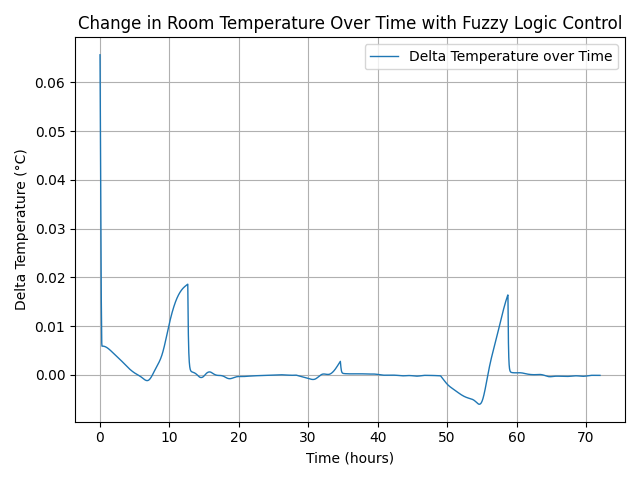
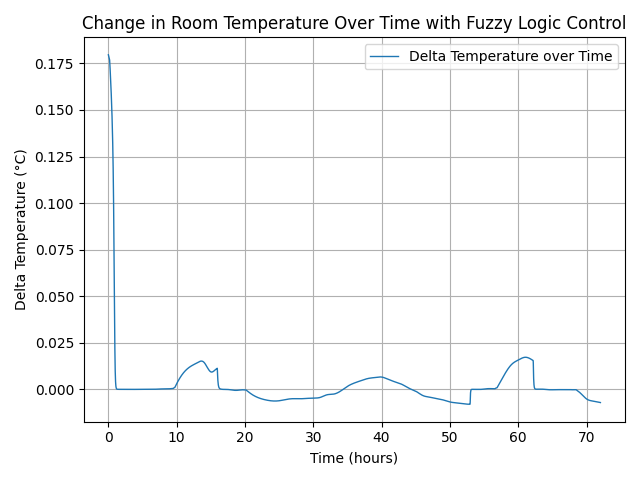
fair results

diff --git a/system.py b/system.py
@@ -23,11 +23,11 @@ cur_time = start
 outdoor_temps = [16.3]
 
 #initial_temp = -5 + splines['temperature'](0) * random.uniform(0.9, 1.1)  # %10 variation in initial temperature
-initial_temp = 17.5
+initial_temp = 10
 initial_hum = 50.0
 #initial_hum = 5 + splines['humidity'](0) * random.uniform(0.9, 1.1)  # %10 variation in initial humidity
 initial_delta_temp = 0  # Initial change in temperature
-#initial_delta_hum = -5  # Initial change in humidity
+#initial_delta_hum = 0  # Initial change in humidity
 
 cur_temp = initial_temp
 cur_hum = initial_hum
@@ -78,6 +78,7 @@ while cur_time < max_time:
     temps.append(cur_temp)
     hums.append(cur_hum)
     delta_temps.append(cur_delta_temp)
+    #delta_hums.append(cur_delta_hum)
     outdoor_temps.append(splines['temperature'](cur_time))
 
     cur_delta_temp = new_temp - cur_temp
@@ -122,6 +123,16 @@ plt.legend()
 plt.tight_layout()
 plt.savefig('results/delta_temperature_over_time.png')
 plt.clf()
+
+#plt.plot(times, delta_hums, label='Delta Humidity over Time', lw = 1)
+#plt.xlabel('Time (hours)')
+#plt.ylabel('Delta Humidity (%)')
+#plt.title('Change in Room Humidity Over Time with Fuzzy Logic Control')
+#plt.grid()
+#plt.legend()
+#plt.tight_layout()
+#plt.savefig('results/delta_humidity_over_time.png')
+#plt.clf()
 
 plt.plot(times[1:], ac_control_data, label='AC/Heater Control Signal', lw = 1)
 plt.xlabel('Time (hours)')

diff --git a/membership_functions.py b/membership_functions.py
@@ -30,9 +30,9 @@ delta_humidity['stable'] = fuzz.trimf(universes['delta_humidity'], [-1, 0, 1])  
 delta_humidity['increasing'] = fuzz.trapmf(universes['delta_humidity'], [2, 15, mm.DELTA_HUM_MAX, mm.DELTA_HUM_MAX])
 
 ac_heater_power = ctrl.Consequent(universes['ac_heater_power'], 'ac_heater_power')
-ac_heater_power['cooling'] = fuzz.trapmf(universes['ac_heater_power'], [mm.AC_HEATER_POWER_MIN, mm.AC_HEATER_POWER_MIN, -20, 15])
-ac_heater_power['off'] = fuzz.trimf(universes['ac_heater_power'], [-5, 0, 15])
-ac_heater_power['heating'] = fuzz.trapmf(universes['ac_heater_power'], [-5, 30, mm.AC_HEATER_POWER_MAX, mm.AC_HEATER_POWER_MAX])
+ac_heater_power['cooling'] = fuzz.trapmf(universes['ac_heater_power'], [mm.AC_HEATER_POWER_MIN, mm.AC_HEATER_POWER_MIN, -25, 0])
+ac_heater_power['off'] = fuzz.trimf(universes['ac_heater_power'], [-10, 0, 10])
+ac_heater_power['heating'] = fuzz.trapmf(universes['ac_heater_power'], [0, 25, mm.AC_HEATER_POWER_MAX, mm.AC_HEATER_POWER_MAX])
 
 humidifier_dehumidifier_power = ctrl.Consequent(universes['humidifier_dehumidifier_power'], 'humidifier_dehumidifier_power')
 humidifier_dehumidifier_power['dehumidifying'] = 1 - fuzz.trapmf(universes['humidifier_dehumidifier_power'], [-60, -20, mm.HUMIDIFIER_DEHUMIDIFIER_POWER_MAX, mm.HUMIDIFIER_DEHUMIDIFIER_POWER_MAX])
